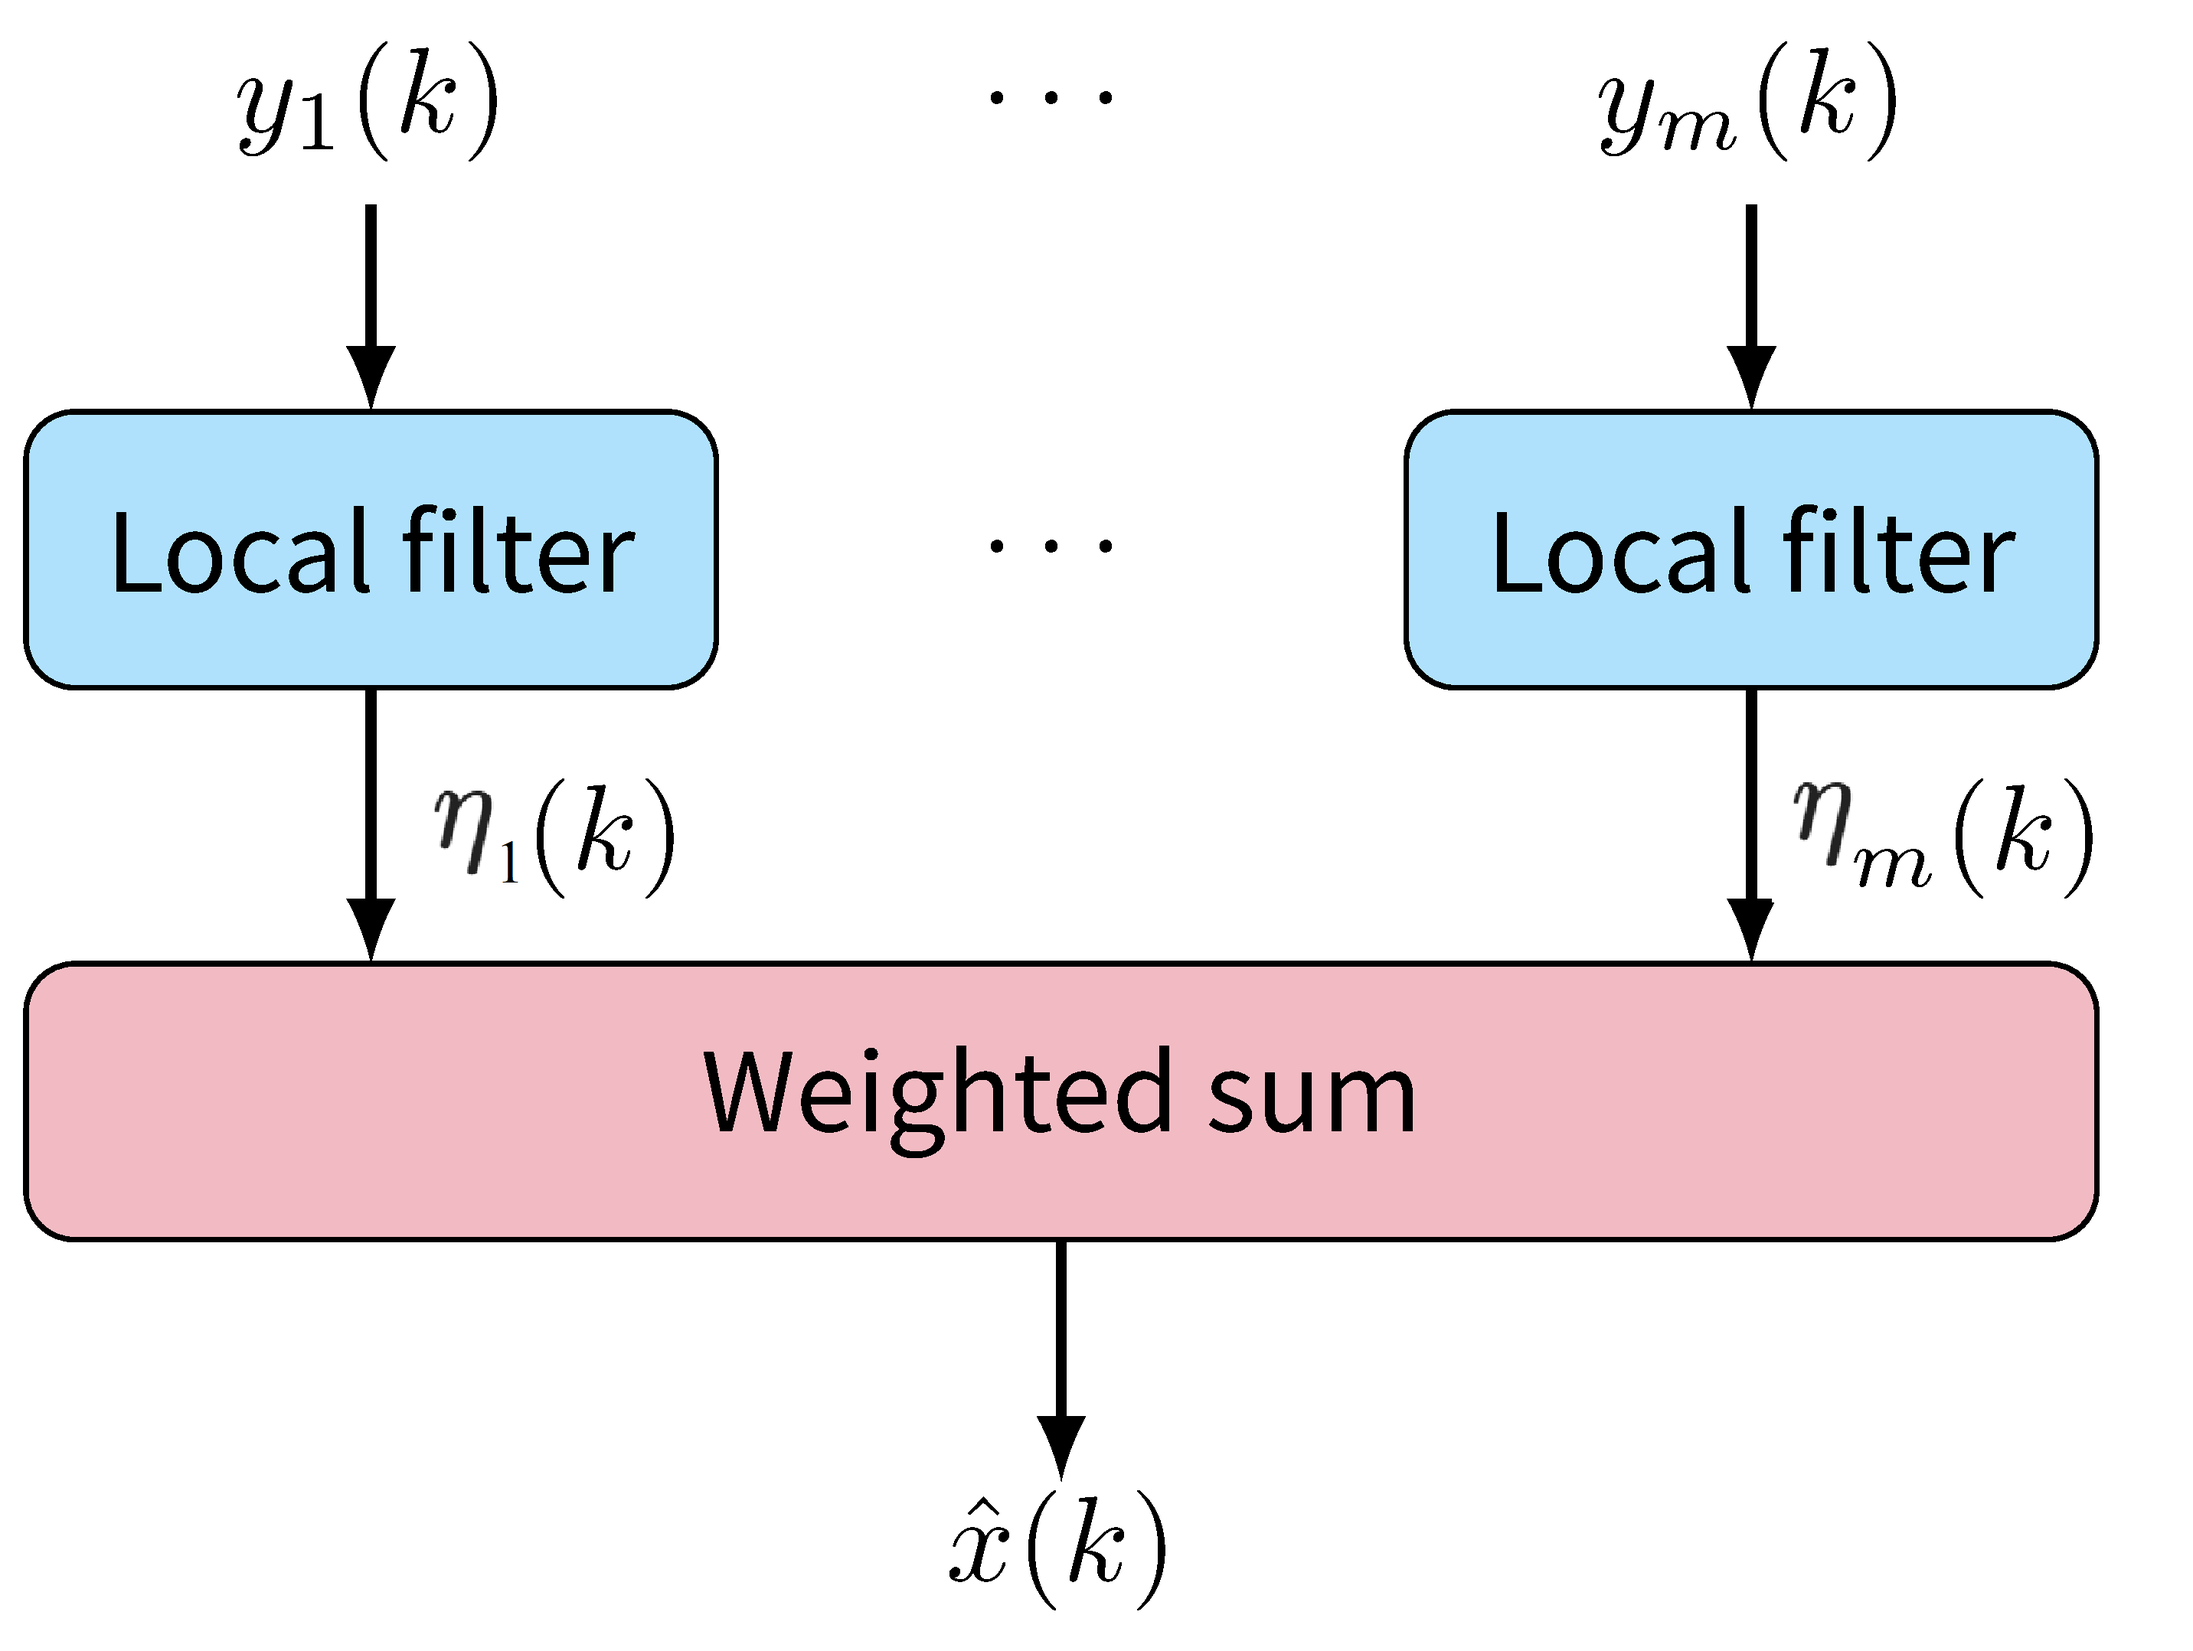
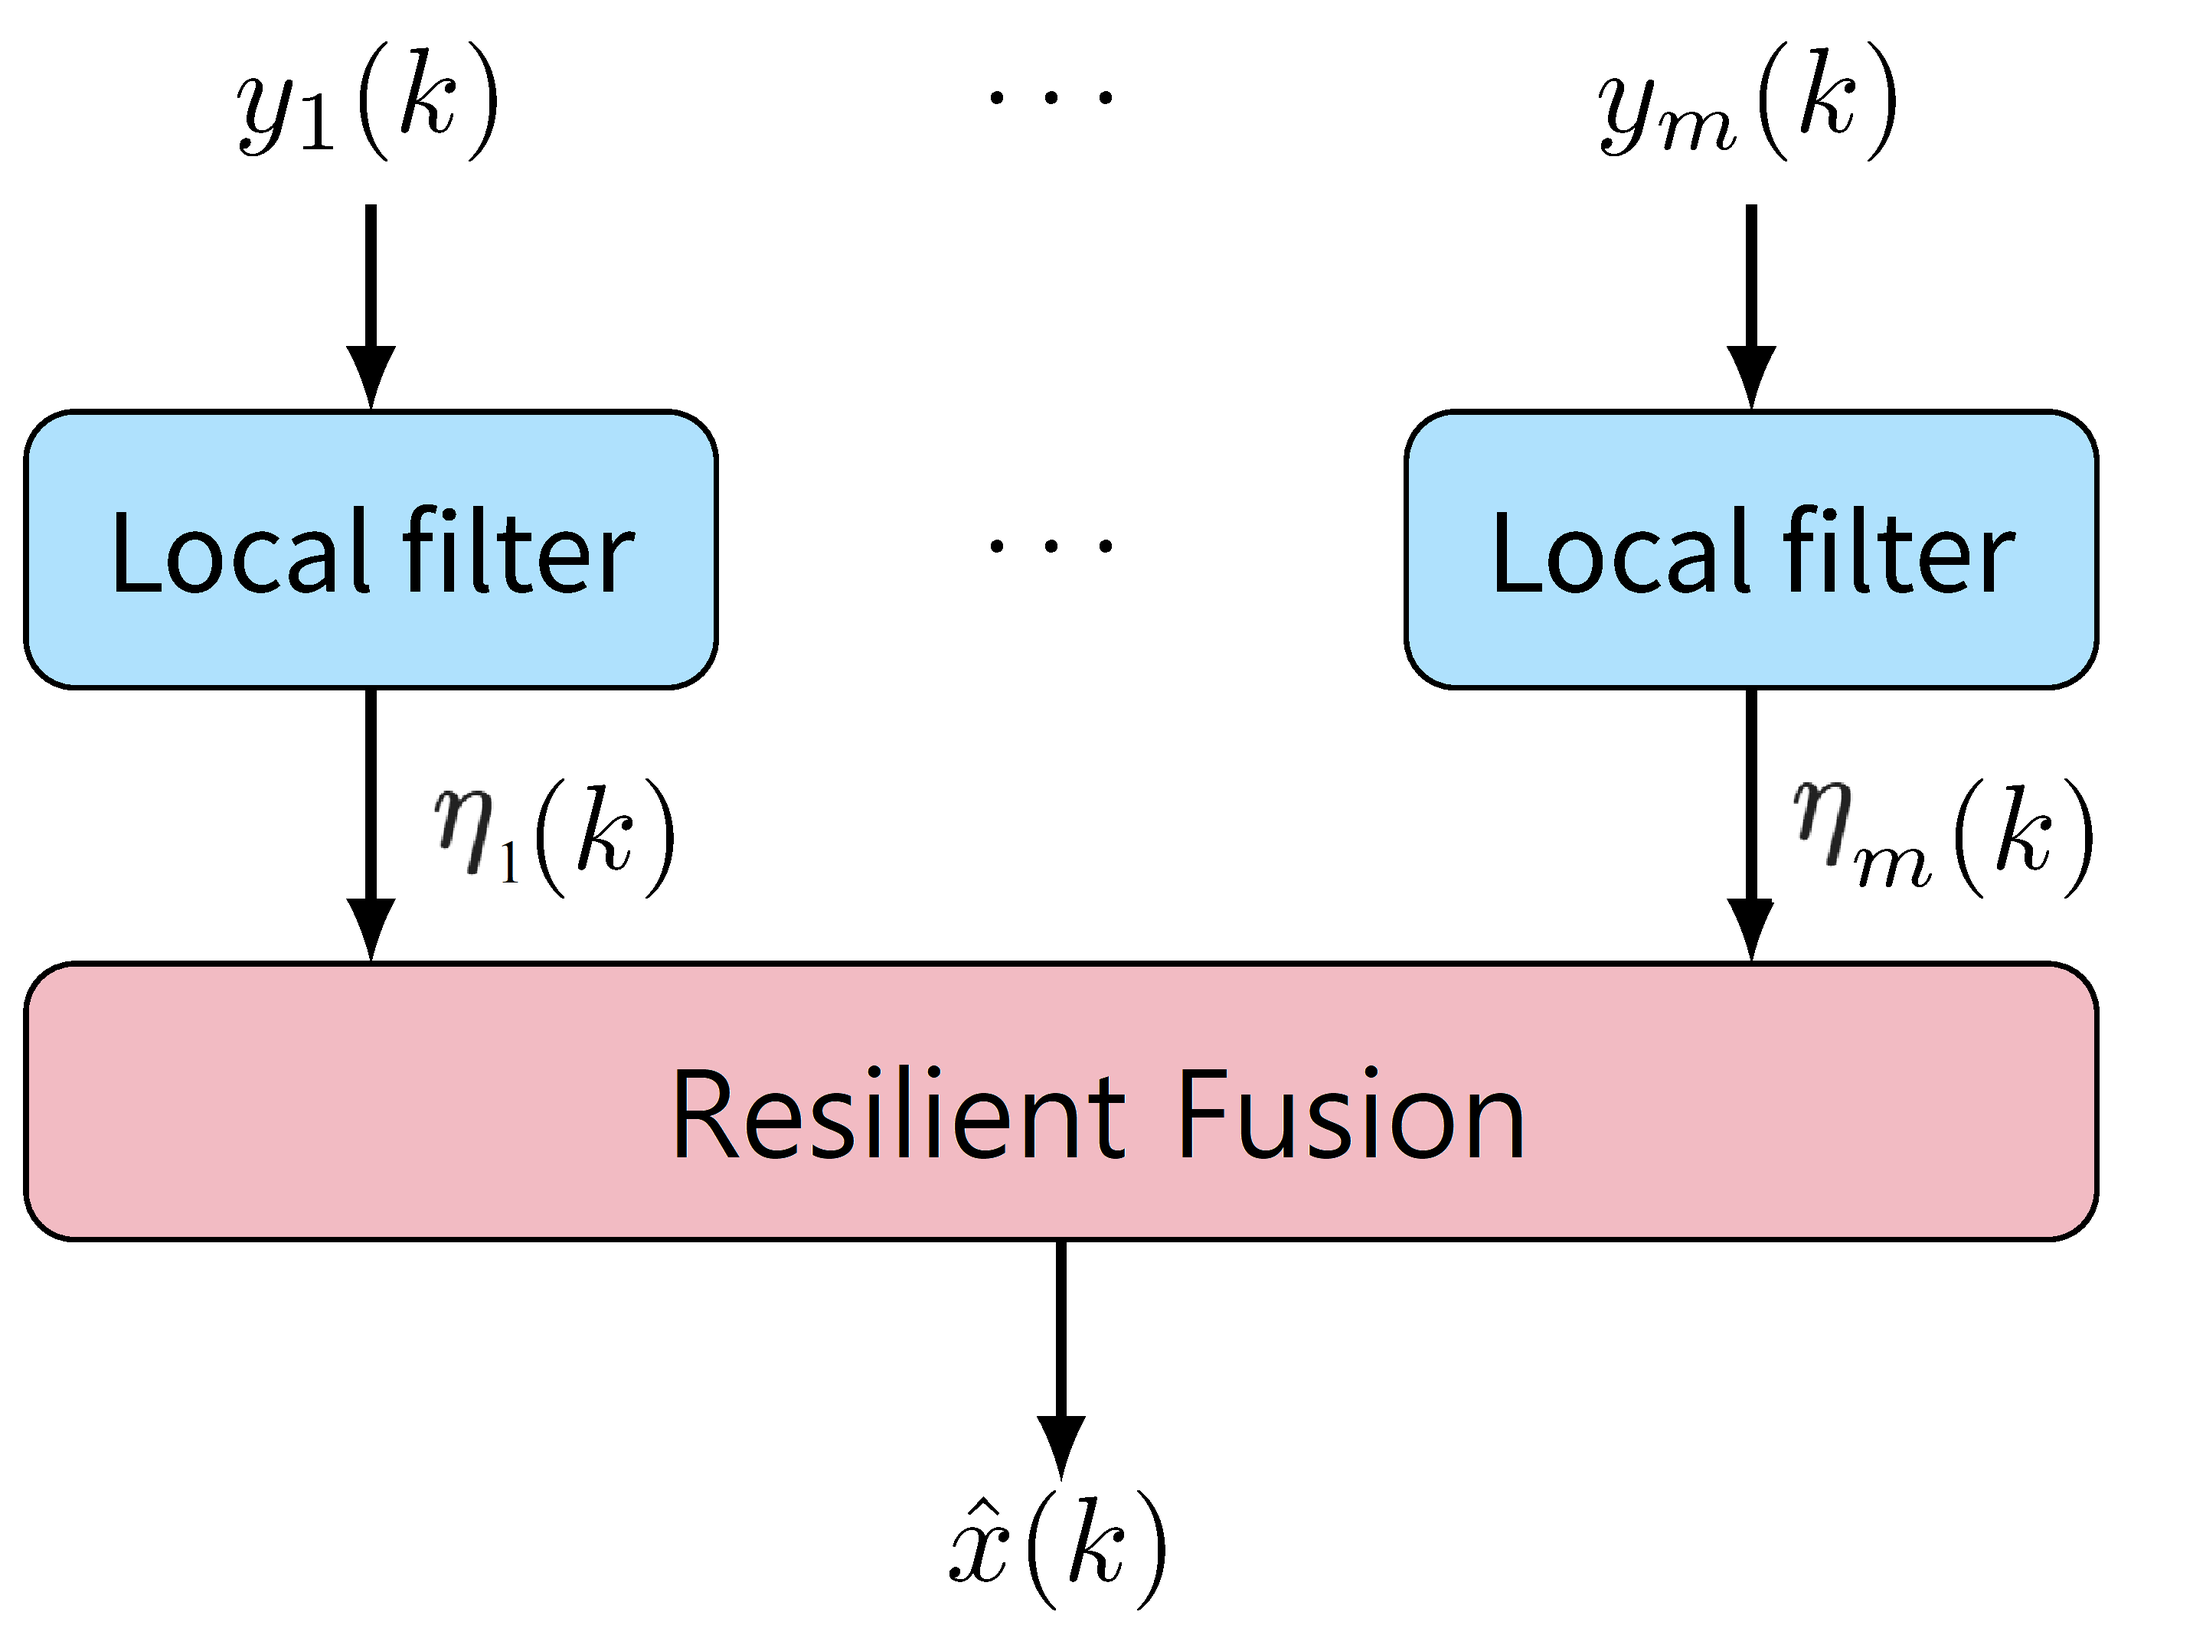
final polish before talk to mo

Changed region(s): [[0.3108, 0.6212, 0.7147, 0.7144]]

diff --git a/talk/IFAC2023/index.html b/talk/IFAC2023/index.html
@@ -293,7 +293,7 @@
 
 
 
-<section id="slide-preliminary-result1" class="center">
+<!-- <section id="slide-preliminary-result1" class="center">
 	<h4 id="h4_kf" style="margin-top: -2%;">Methods in the literature</h4>
 	<p style="font-size:35px;">
 	1. Sliding window methods 
@@ -369,7 +369,7 @@
 
 	<p style="font-size:20px;">L. An and G. -H. Yang, "Secure State Estimation Against Sparse Sensor Attacks With Adaptive Switching Mechanism," in IEEE Transactions on Automatic Control, vol. 63, no. 8, pp. 2596-2603, Aug. 2018, doi: 10.1109/TAC.2017.2766759.</p>
 
-</section>
+</section> -->
 
 <!-- <section id="slide-preliminary-result5" class="center">
 	<h4 id="h4_kf">The computational complexity problem of existing works</h4>
@@ -543,6 +543,8 @@
 			\begin{equation}\label{eq:def_Ec}
 				\mathcal{Q}_i\triangleq \{j=1,\cdots,n\ |\ O_i \mathbf{e}_j\neq \mathbf{0} \}.
 			\end{equation}
+			Moreover, $\tilde{A_i}\triangleq H_i A H'_i ,\ \tilde{C_i}\triangleq C_i H'_i, \text{ and } (\tilde{A_i},\tilde{C_i}) \text{ is observable} $.
+	
 </section>
 <!-- <section>
 	<h4 id="">Preliminaries on Local Observable Subspace Decomposition</h4>
@@ -564,7 +566,7 @@ $$
 </section> -->
 
 
-<section style="font-size: 24pt;">
+<!-- <section style="font-size: 24pt;">
 	<h4 id="">Preliminaries on Local Observable Subspace Decomposition</h4>
 	
 		$$A=\begin{bmatrix}
@@ -598,35 +600,52 @@ $$
 	<h4 id="" >$H_i$ is designed such that </h4>
 	\begin{align}
 		\tilde{A_i}\triangleq H_i A H'_i ,\quad \tilde{C_i}\triangleq C_i H'_i, \text{ and } (\tilde{A_i},\tilde{C_i}) \text{ is observable} 
-	\end{align} 
+	\end{align}  -->
 	
 	<!-- $H_i$ transforms state $x$ into observable part at sensor $i$.
 
 	$$H_1[x_1,x_2,x_3]=x_1,\ H_2[x_1,x_2,x_3]=[x_2,x_3], \cdots$$ -->
 	<!-- $H_1$ transforms state $[x_1,x_2,x_3]$ into state $x_1$. $H_2$ transforms state $[x_1,x_2,x_3]$ into state $[x_2,x_3]$. -->
 
-</section>
+<!-- </section> -->
 
-<section style="font-size: 24pt;">
-	<h4 id="">Preliminaries on Local Observable Subspace Decomposition</h4>
-	
+<section style="font-size: 20pt;">
+	<h4 id="">Example on Resilient Fusion</h4>
+	<div class="leftcol" style="margin-left: -1%;margin-right: 0%">
+		$$A=\begin{bmatrix}
+			\lambda_1 &0&0\\
+			0& \lambda_2 & 1\\
+			0&0&\lambda_2
+		\end{bmatrix}, \quad 
+		C=\begin{bmatrix}
+			1 &0&0\\
+			0&1&0\\
+			1 &0&0\\
+			0&1&1\\
+			1 &0&0\\
+			0&0&1
+		\end{bmatrix}.$$
 		
-		
-	$$\tilde{A}_1=\lambda_1,\; \tilde{C}_1=1,\quad \tilde{A}_2=\begin{bmatrix}
+	<!-- $$\tilde{A}_1=\lambda_1,\; \tilde{C}_1=1,\quad \tilde{A}_2=\begin{bmatrix}
 		\lambda_2 & 1\\
 		0&\lambda_2
 	\end{bmatrix}, \; \tilde{C}_2=\begin{bmatrix}
 		1 &0
-	\end{bmatrix}, \cdots$$
+	\end{bmatrix}, \cdots$$ -->
+	<div>
+		Construct 6 local observers :
+		$$\eta_1(k+1)=(\tilde{A}_1-L_1 \tilde{C}_1 )\eta_1(k)+L_1 y_1(k).$$
+		$$\vdots$$
+		$$\eta_6(k+1)=(\tilde{A}_6-L_6 \tilde{C}_6 )\eta_6(k)+L_6 y_6(k).$$
+	
+	
+		
+	</div>
+</div>
+	
 
-	Construct two observers that estimates $H_1 x$ and $H_2 x.$
-
-
-	$$\eta_1(k+1)=(\tilde{A}_1-L_1 \tilde{C}_1 )\eta_1(k)+L_1 y_1(k).$$
-	$$\vdots$$
-	$$\eta_6(k+1)=(\tilde{A}_6-L_6 \tilde{C}_6 )\eta_6(k)+L_6 y_6(k).$$
-
-	Fuse those subsystems by taking median:
+<div class="rightcol" style="margin-left: -1%;margin-right: 0%;">
+	
 
 	<!-- $$\hat{x}(k)=f(H_1^\top \eta_1(k), H_2^\top \eta_2(k))$$ -->
 	<!-- $$\begin{bmatrix}x_1 \\ \cdot \\ \cdot \end{bmatrix},
@@ -637,17 +656,45 @@ $$
 	\begin{bmatrix}\cdot \\ \cdot \\ x_3 \end{bmatrix}
 	$$ -->
 	<div class="r-stack">
-		<span class="fragment fade-out" data-fragment-index="1">
-			<div style="margin-right: 20%;" class="imgcontainer"><img src="./figures/med_before.png" width="1000" height="200"></div>
+
+
+		<span class="fragment fade-in" data-fragment-index="1">
+			Fuse those subsystems by taking median:
+			<div style="margin-left: -20%; margin-right: -20%;" class="imgcontainer"><img src="./figures/med_before.png" width="1500" height="200"></div>
 		</span>
 
-		<span  class="fragment fade-in" data-fragment-index="1">
-			<div style="margin-right: 20%;" class="imgcontainer"><img src="./figures/med.png" width="1100" height="200"></div>
+		<span  class="fragment fade-in" data-fragment-index="2">
+			Fuse those subsystems by taking median:
+			<div style="margin-left: -20%; margin-right: -20%;" class="imgcontainer"><img src="./figures/med.png" width="1100" height="200"></div>
 		</span>
 	</div>
 
-	
 
+</div>
+
+</section>
+
+<section id="inter-result">
+	<h4 id="">Secure Estimation Algorithm against static sparse attack</h4>
+
+	<h4 id="" style="margin-top: 1%">Lemma 1</h4>
+
+	<!-- <div style="margin-top: -0%;" class="imgcontainer"><img src="./figures/algo.png" width="1800" height="1200"></div> -->
+
+	$$[\hat{x}(k)]_j={\rm med}\left\{[H_i^\top \eta_i(k)]_j, j\in\mathcal{Q}_i\right\}$$
+
+	<div style="font-size:40px; margin-top: 0%;">
+	The state estimation $\hat{x}(k)$ above has uniformly bounded error under <strong>static sparse attack</strong> where ${\rm supp} \{a(k)\}\subset \mathcal{C}$.
+	</div>
+
+	$$
+	\|\hat{x}(k)-x(k)\|_\infty\leq {\rm Constant}(\mathcal{B}_w,\mathcal{B}_v,A,C,L_i) $$
+
+
+	<h4 id="" style="margin-top: 4%">For time-varying attack</h4>
+	<div>
+		Since time-varying attack may deteriorate all local states $\eta_i(k)$, we need a <strong>detection</strong> and <strong>reset</strong> mechanism.
+	</div>
 
 </section>
 
@@ -655,7 +702,7 @@ $$
 <section>
 	<h4 id="">Secure Estimation Algorithm </h4>
 
-	<div style="margin-top: -0%;" class="imgcontainer"><img src="./figures/algo.png" width="1800" height="1200"></div>
+	<div style="margin-top: -0%;margin-left: -10%;margin-right: -10%;margin-bottom: -10%;" class="imgcontainer"><img src="./figures/algo.png" width="1800" height="1800"></div>
 
 	<div style="font-size:30px; margin-top: 40%;">
 	Step 1: update local observer state.
@@ -665,7 +712,7 @@ $$
 <section>
 	<h4 id="">Secure Estimation Algorithm</h4>
 
-	<div style="margin-top: -0%;" class="imgcontainer"><img src="./figures/algo.png" width="1800" height="1200"></div>
+	<div style="margin-top: -0%;margin-left: -10%;margin-right: -10%;margin-bottom: -10%;" class="imgcontainer"><img src="./figures/algo.png" width="1800" height="1200"></div>
 
 	<div style="font-size:30px; margin-top: 35%;">
 	Step 2: For each state entry,  take median among all local states that can observe them.
@@ -678,13 +725,13 @@ $$
 <section>
 	<h4 id="">Secure Estimation Algorithm</h4>
 
-	<div style="margin-top: -0%;" class="imgcontainer"><img src="./figures/algo.png" width="1800" height="1200"></div>
+	<div style="margin-top: -0%;margin-left: -10%;margin-right: -10%;margin-bottom: -10%;" class="imgcontainer"><img src="./figures/algo.png" width="1800" height="1200"></div>
 
 	<div style="font-size:30px; margin-top: 35%;">
-	Step 3: Check compatibility of all those local estimates.
+	Step 3: Check compatibility of all those local estimates. 
 	<!-- $$\mathcal{F}_j\triangleq \{j|O_i \mathbf{e}_j \neq \mathbf{0}\}.$$ -->
 	</div>
-	<div style="margin-right: 20%;" class="imgcontainer"><img src="./figures/med.png" width="800" height="200"></div>
+	<div style="margin-right: 20%;" class="imgcontainer"><img src="./figures/med_check.png" width="800" height="200"></div>
 	
 </section>
 
@@ -717,7 +764,7 @@ $$
 	</ul>
 </section> -->
 
-<section id="" class="center">
+<!-- <section id="" class="center">
 	<h4 id="" style="margin-top: 1%">Convergence Proof (Theorem 2)</h4>
 
 	Assume for each sensor $i$, estimator gain $L_i$ and detector parameter $\gamma$ satisfy the following inequality:
@@ -728,19 +775,19 @@ with $\gamma\geq\mathcal{B}_w+ \|L_i\|_2\mathcal{B}_v$.
 	where
 	<div style="font-size: 25pt;">
 	$\text{Accurate sensor set: }\mathcal{A}(k)\triangleq \{\ i\in\{ 1,\cdots,m\} \ \left| \ \|\eta_i(k)-H_ix(k)\|_{2}\leq \gamma \right. \} .$
-</div>
+</div> -->
 <!-- <div style="font-size: 25pt;" >
 	$\text{Good sensor set: } \mathcal{G}(k)\triangleq \mathcal{I}\setminus \mathcal{C}(k).$
 </div> -->
-</section>
+<!-- </section> -->
 
 <section id="" class="center">
-	<h4 id="" style="margin-top: 1%">Main result on secure estimation (Theorem 3)</h4>
+	<h4 id="" style="margin-top: 1%">Main result on secure estimation (Theorem 2)</h4>
 
-	Assume the following two  conditions hold:
+	Assume the system is $2p$-sparse observable and the following two conditions hold:
 	<div>
 	(1)
-	$\sigma_{\max}\left(\tilde{A}_i-L_i\tilde{C}_i\right)\leq \frac{\gamma-\mathcal{B}_w- \|L_i\|_2\mathcal{B}_v }{(2\sqrt{n_i}+1)\gamma}$
+	$\sigma_{\max}\left(\tilde{A}_i-L_i\tilde{C}_i\right)\leq \frac{\gamma-\mathcal{B}_w- \|L_i\|_2\mathcal{B}_v }{(2\sqrt{n_i}+1)\gamma}$ with $\gamma\geq\mathcal{B}_w+ \|L_i\|_2\mathcal{B}_v$. 
 </div>
 <div>
 	(2) The initial estimate satisfies $\|\hat{x}(0)-x(0)\|_\infty\leq \gamma$.
@@ -965,12 +1012,35 @@ with $\gamma\geq\mathcal{B}_w+ \|L_i\|_2\mathcal{B}_v$.
 
 </section>
 
+
+<section>
+	<h4>Random signal attack</h4>
+	<div class="imgcontainer">
+		<div typeof="dcmitype:StillImage" class="figure">
+			<p>
+				<img data-src="figures/rand_added_a.png" alt="Figure" style="margin-top:-2%; max-height:150vh" />
+			</p>
+		</div>
+	</div>
+</section>
+
 <section>
 	<h4>Estimation performance under random attack signal</h4> 
 	<div about="" typeof="dcmitype:StillImage" class="figure">
 		<img src="./figures/random_attack_result.png" width="1000" height="1800" style="margin-top:0%; margin-right:0%;">
 	</div>
 		
+</section>
+
+<section>
+	<h4>Slope signal attack</h4>
+	<div class="imgcontainer">
+		<div typeof="dcmitype:StillImage" class="figure">
+			<p>
+				<img data-src="figures/slope_added_a.png" alt="Figure" style="margin-top:-2%; max-height:150vh" />
+			</p>
+		</div>
+	</div>
 </section>
 
 <section>
